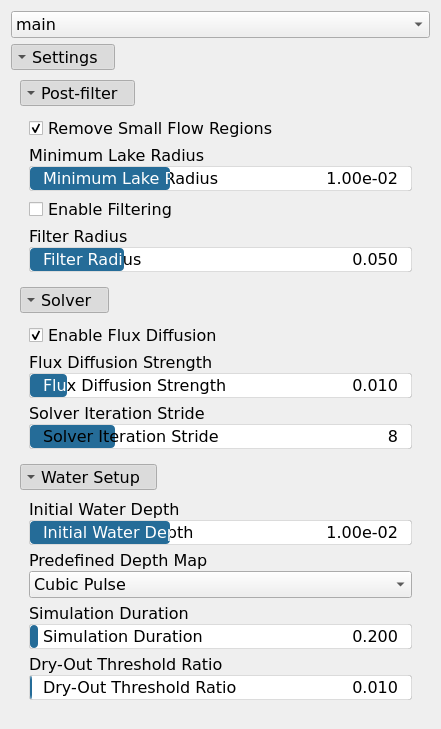
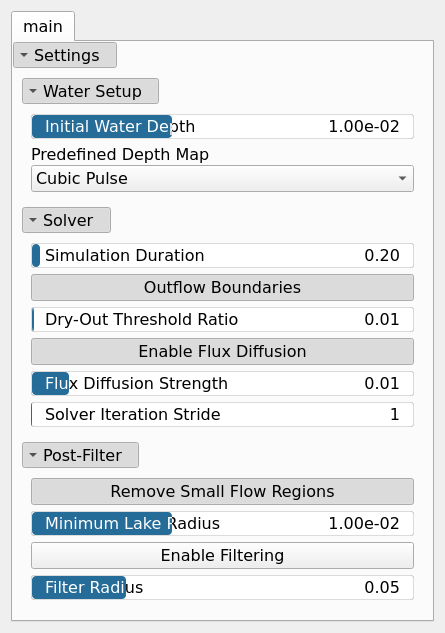
feat(nodes): run FlowSimulation at full resolution by default

diff --git a/Hesiod/src/model/nodes/nodes_function/flow_simulation.cpp b/Hesiod/src/model/nodes/nodes_function/flow_simulation.cpp
@@ -65,7 +65,7 @@ void setup_flow_simulation_node(BaseNode &node)
   add_float(node, A_DRY_OUT_RATIO, "Dry-Out Threshold Ratio", 0.01f, 0.f, 1.f);
   add_bool(node, A_FLUX_DIFFUSION, "Enable Flux Diffusion", true);
   add_float(node, A_FLUX_DIFFUSION_STRENGTH, "Flux Diffusion Strength", 0.01f, 0.f, 0.1f);
-  add_int(node, A_SOLVER_STRIDE, "Solver Iteration Stride", 4, 1, 32);
+  add_int(node, A_SOLVER_STRIDE, "Solver Iteration Stride", 1, 1, 32);
 
   node.set_current_category("Post-Filter");
   add_bool(node, A_AREA_FILTER, "Remove Small Flow Regions", true);

diff --git a/docs/node_reference/nodes/FlowSimulation.md b/docs/node_reference/nodes/FlowSimulation.md
@@ -20,6 +20,7 @@ Hydrology
 | :--- | :--- | :--- |
 |depth_map|VirtualArray|No description|
 |elevation|VirtualArray|No description|
+|rain_map|VirtualArray|No description|
 |water_depth_in|VirtualArray|No description|
 
 ## Outputs
@@ -38,10 +39,11 @@ Hydrology
 |Simulation Duration|Float|No description|
 |Enable Flux Diffusion|Bool|No description|
 |Flux Diffusion Strength|Float|No description|
+|Outflow Boundaries|Bool|No description|
 |Enable Filtering|Bool|No description|
 |Filter Radius|Float|No description|
 |Minimum Lake Radius|Float|No description|
-|Solver Iteration Stride|Integer|Grid sampling stride used by the solver. Higher values process the snow field at a lower spatial resolution, reducing computation time at the cost of fine detail.|
+|Solver Iteration Stride|Integer|Grid sampling stride used by the solver. 1 (default) runs the simulation at full resolution. Higher values run it on a coarser grid and upsample the result, which is faster on very large maps but smears fine flow structure.|
 |Initial Water Depth|Float|No description|
 
 ## Example
